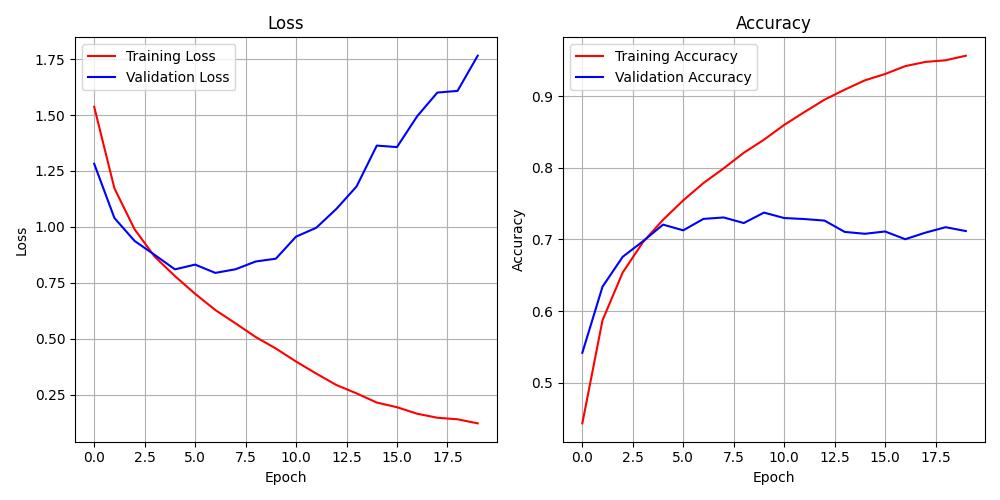
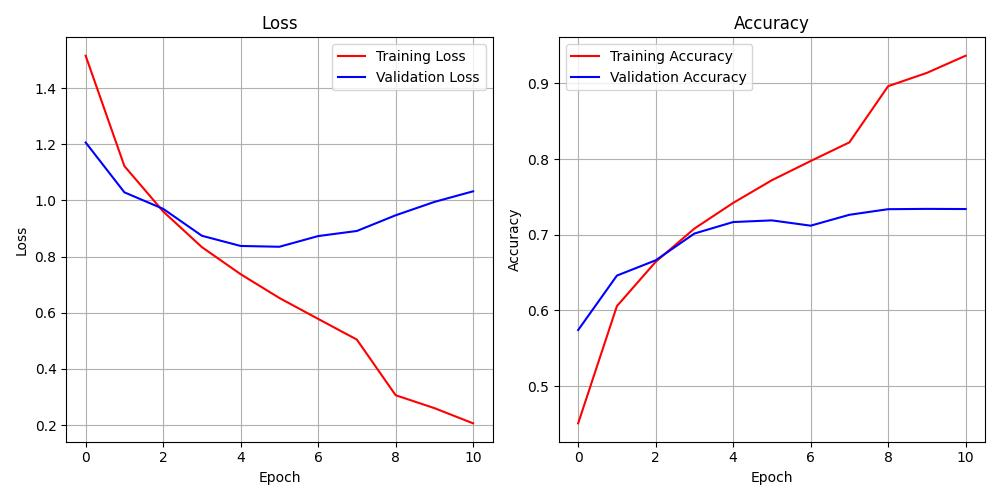
trained with callbacks

diff --git a/src/train.py b/src/train.py
@@ -17,7 +17,7 @@ model.compile(
 callbacks = [EarlyStopping(monitor="val_loss", patience=5, restore_best_weights=True, verbose=1), 
              ReduceLROnPlateau(monitor="val_loss", factor=0.2, patience=2, min_delta=1e-4, min_lr=1e-7, verbose=1),
              ModelCheckpoint(filepath=".\\models\\best_model_callback.h5", monitor="val_loss", save_best_only=True, save_weights_only=False, verbose=1),
-             CSVLogger(filename=".\\model\\log\\model_callback.csv", append=False, seprator=",")]
+             CSVLogger(filename=".\\models\\log\\model_callback.csv", append=False, separator=",")]
 
 history = model.fit(train_ds, epochs=config.EPOCHS, validation_data=val_ds, callbacks=callbacks)
 

diff --git a/src/utils.py b/src/utils.py
@@ -29,7 +29,7 @@ def training_curve(history):
     plt.grid(True)
 
     plt.tight_layout()
-    plt.savefig("..\\assets\\Cifar10_training_curve.jpg")
+    plt.savefig(".\\assets\\Cifar10_training_curve.jpg")
     plt.show()
 
 #######################################################################################
